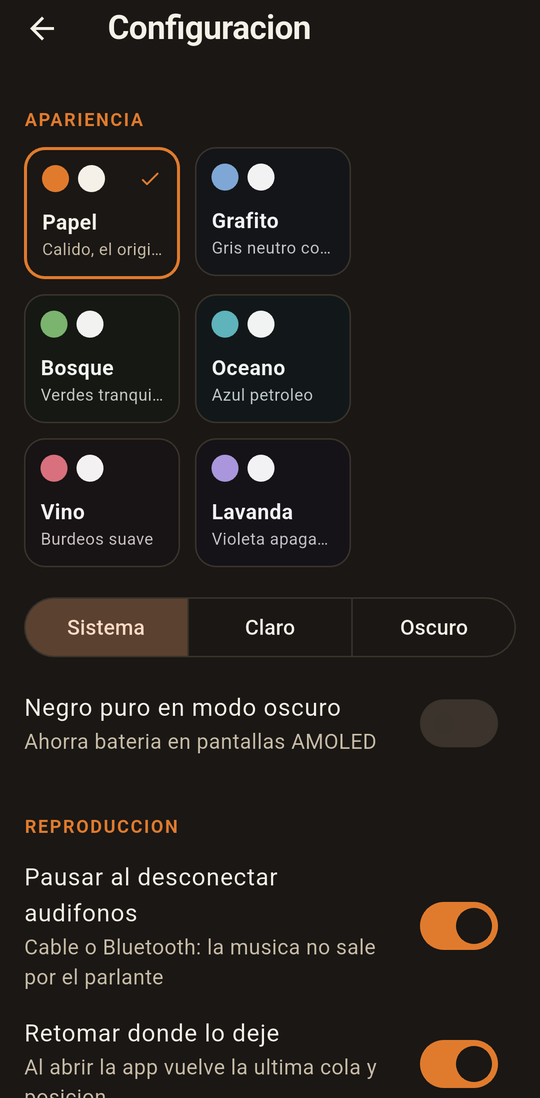
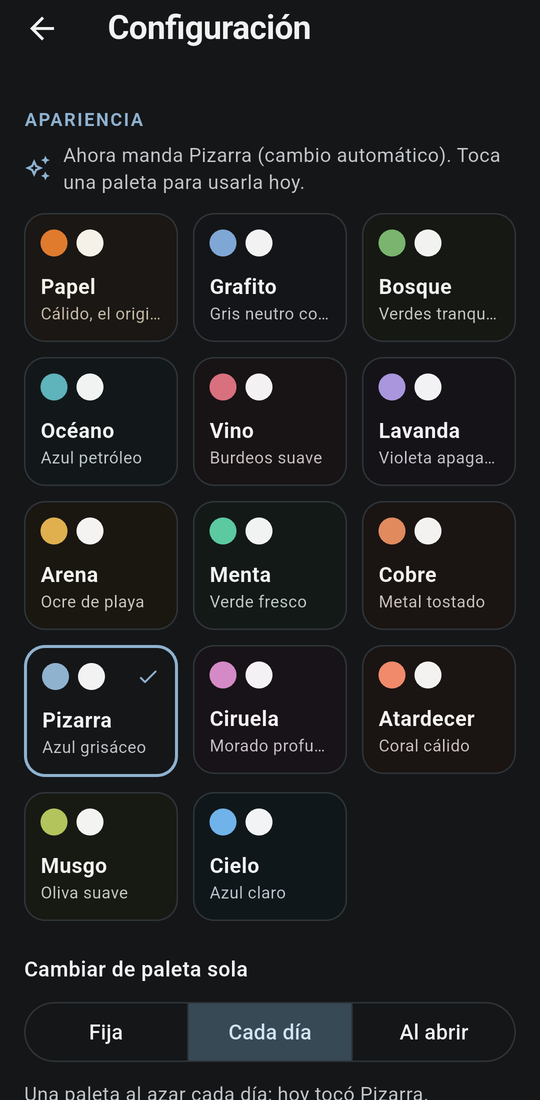
docs(readme): titulo legible en tema claro y oscuro y capturas de la 1.2.0

diff --git a/README.md b/README.md
@@ -1,9 +1,6 @@
 <div align="center">
 
-<picture>
-  <source media="(prefers-color-scheme: dark)" srcset="./docs/screenshots/title-dark.svg">
-  <img src="./docs/screenshots/title.svg" alt="Surco" width="560"/>
-</picture>
+<img src="./docs/screenshots/title.svg" alt="Surco" width="560"/>
 
 ### Reproductor de música local para Android: ligero, sobrio y sin cuentas ni anuncios.
 
